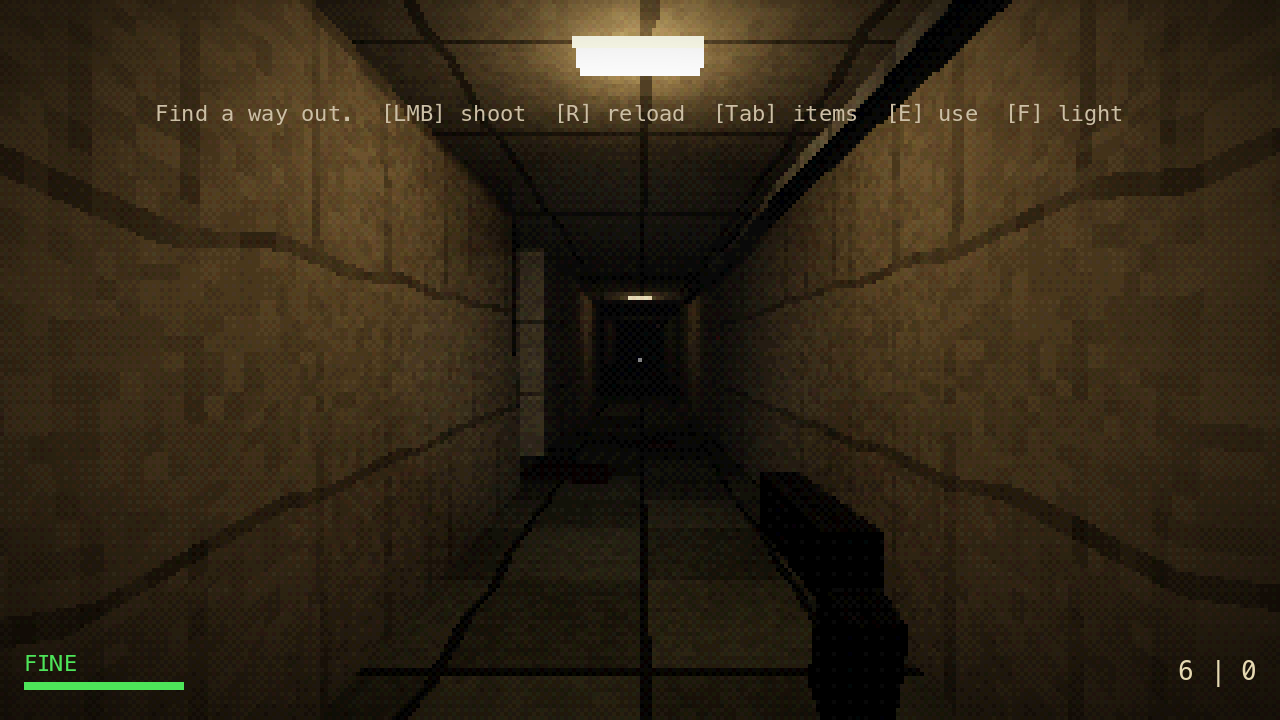
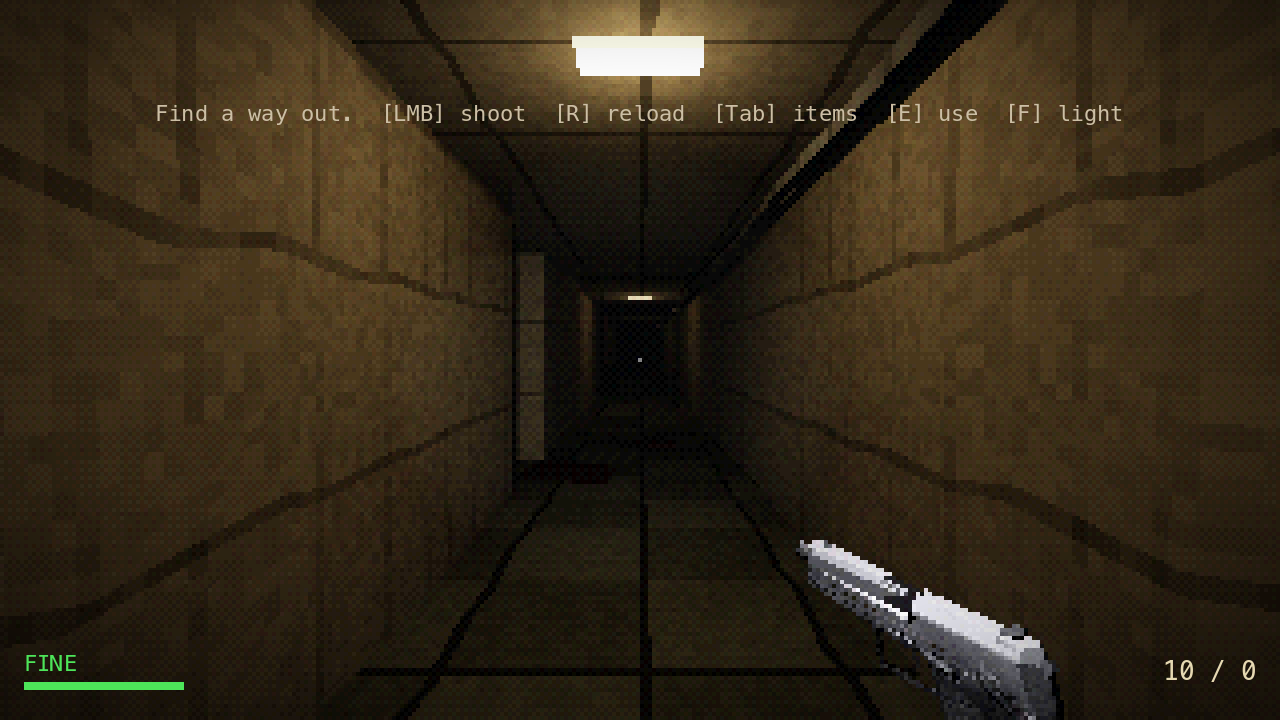
Refresh README screenshots for the current build
Recapture with tools/capture_screenshots.gd: industrial zombie outfits,
scream/lunge, USP muzzle flash and empty reload, walk-over med kit, and
the item screen's 3D viewer, alongside the corridor, storage, door room
and death shots. The capture script no longer grabs the desktop mouse.

diff --git a/README.md b/README.md
@@ -4,7 +4,7 @@ Small PS1-style first-person survival horror in the classic Resident Evil mould:
 explore three dim rooms, scrounge scarce ammo, decide which zombies are worth a
 bullet, find the Exit Keycard and get out.
 
-![A zombie shambling down the corridor in the flashlight beam](docs/screenshots/02_zombie.png)
+![An infected site worker in a hard hat, red-eyed, with a bite on the neck](docs/screenshots/02_zombie.png)
 
 Run: open the folder in Godot 4.7 and press F5, or
 `/Applications/Godot.app/Contents/MacOS/Godot --path .`
@@ -12,12 +12,16 @@ Run: open the folder in Godot 4.7 and press F5, or
 ## Screenshots
 | | |
 |---|---|
-| ![Opening corridor with the controls hint](docs/screenshots/01_corridor.png) | ![Zombie reaching out in the corridor](docs/screenshots/03_attack.png) |
-| *The opening corridor* | *Too close for comfort* |
-| ![Storage room: the guard and the glinting keycard](docs/screenshots/04_storage.png) | ![Door room: terminal glow and the red keycard reader](docs/screenshots/05_door_room.png) |
+| ![Opening corridor with the controls hint and the USP in hand](docs/screenshots/01_corridor.png) | ![Scientist, site worker and hazmat tech zombies side by side](docs/screenshots/03_outfits.png) |
+| *The opening corridor* | *Scientist, site worker, hazmat tech* |
+| ![A zombie rearing back to scream before it lunges](docs/screenshots/04_lunge.png) | ![Firing the USP: muzzle flash lighting the corridor](docs/screenshots/05_muzzle_flash.png) |
+| *Get too close and it screams, then lunges* | *Muzzle flash lights up the corridor* |
+| ![Empty reload: the spent magazine drops out of the grip](docs/screenshots/06_reload.png) | ![A walk-over first aid kit in the flashlight beam](docs/screenshots/11_medkit.png) |
+| *Empty reload, slide locked back* | *Walk-over first aid kit* |
+| ![Storage room: the guard and the glinting keycard](docs/screenshots/07_storage.png) | ![Door room: terminal glow and the red keycard reader](docs/screenshots/08_door_room.png) |
 | *Storage: something guards the keycard* | *The locked EXIT and its keycard reader* |
-| ![Item screen](docs/screenshots/06_items.png) | ![Death screen](docs/screenshots/07_death.png) |
-| *Item screen (pauses the game)* | *Death* |
+| ![Item screen with a rotatable 3D model of the handgun](docs/screenshots/09_items.png) | ![Death screen](docs/screenshots/10_death.png) |
+| *Item screen: drag the 3D model to rotate it* | *Death* |
 
 Captured from the game itself (the 3D view renders at 320×180 and is scaled up). Regenerate them with
 `/Applications/Godot.app/Contents/MacOS/Godot --path . --script tools/capture_screenshots.gd`.
